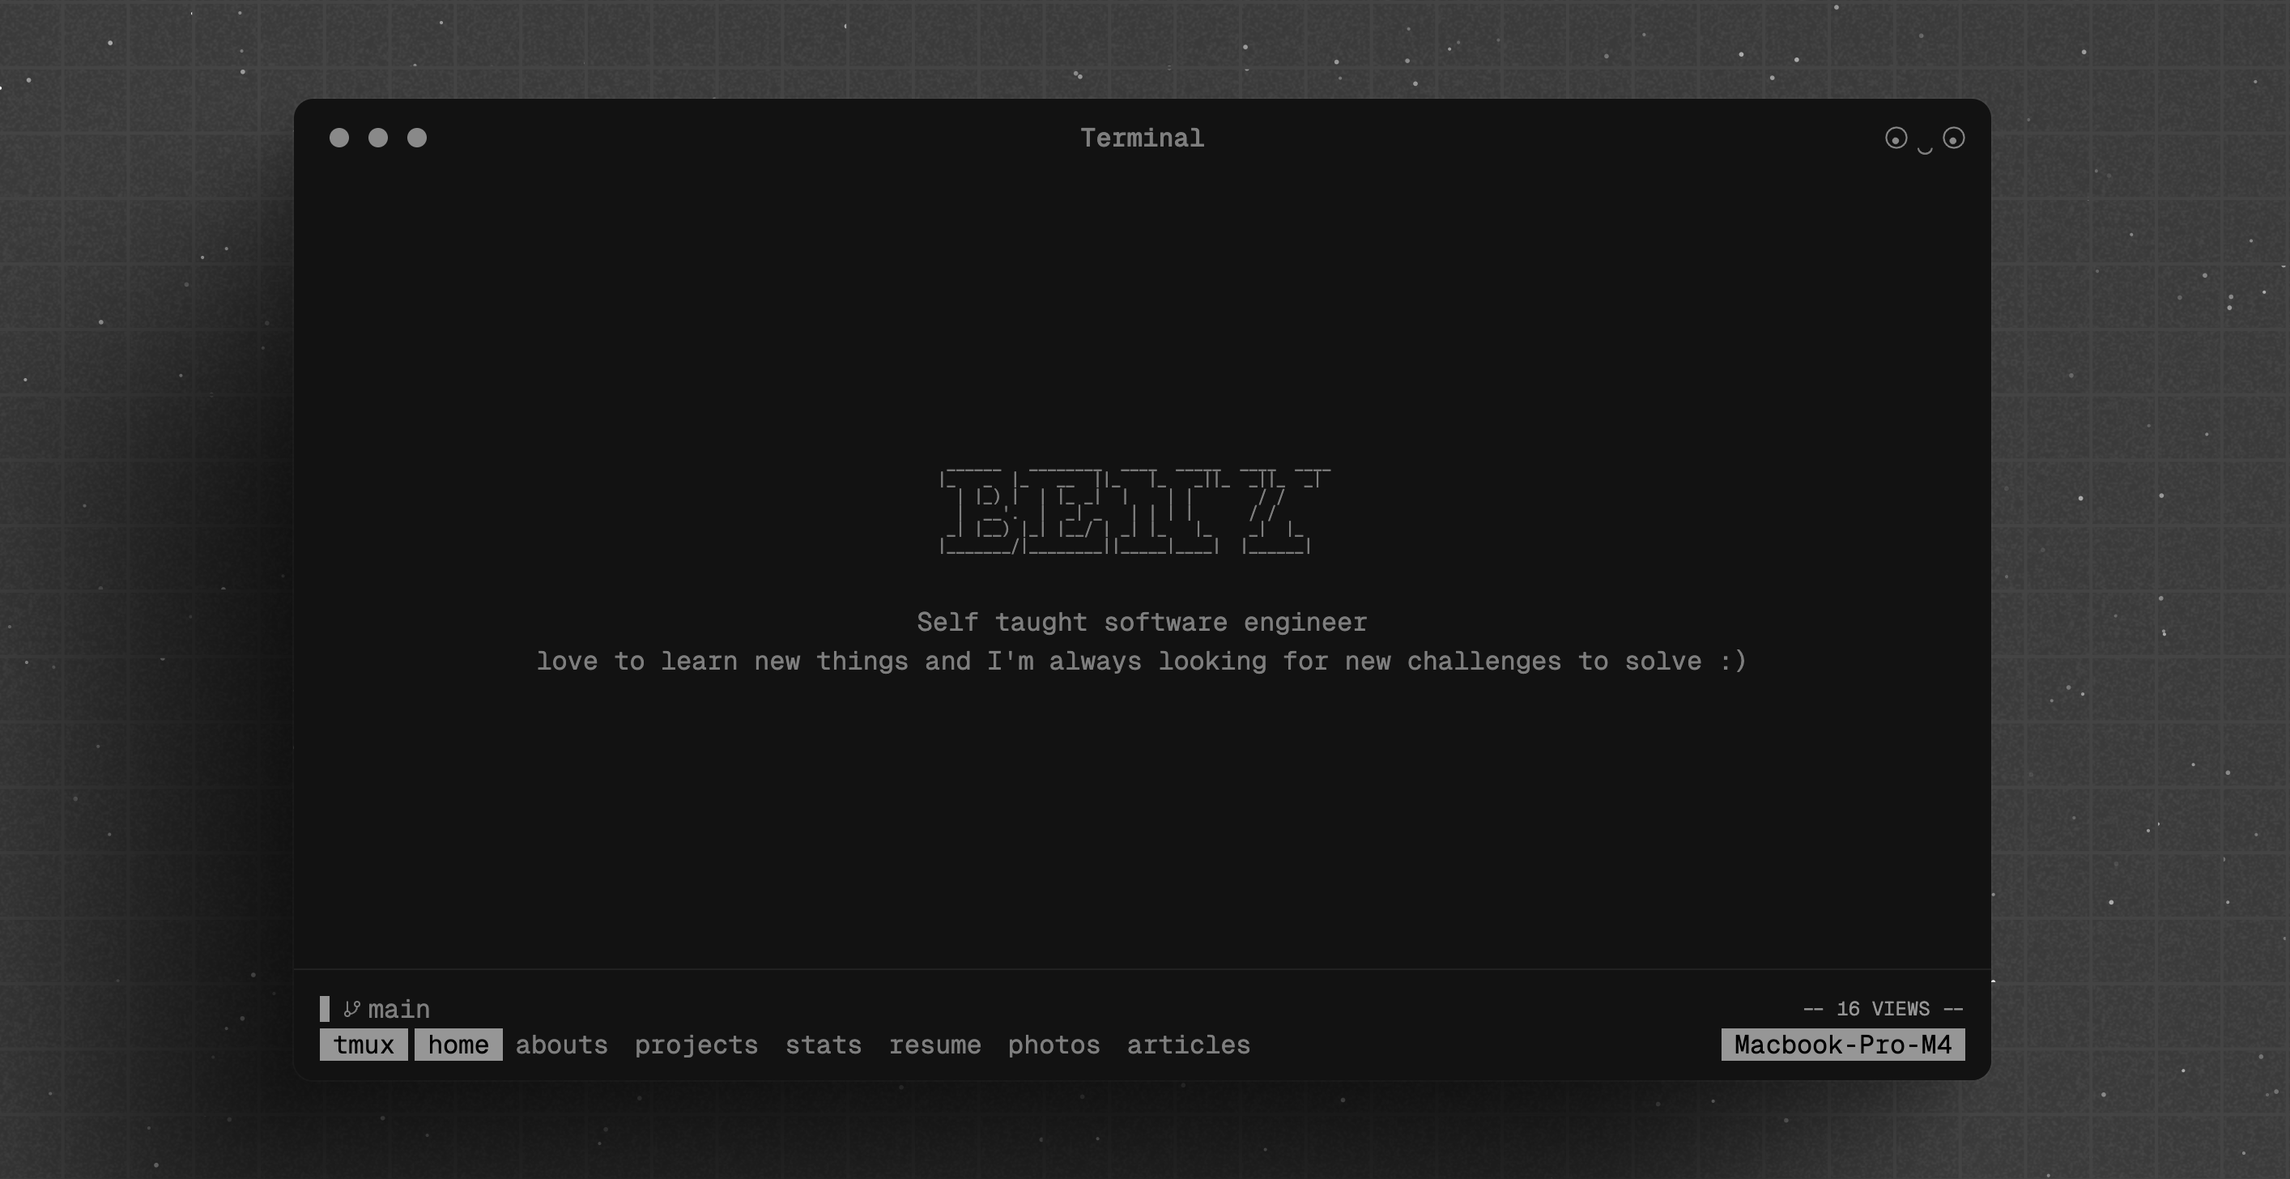
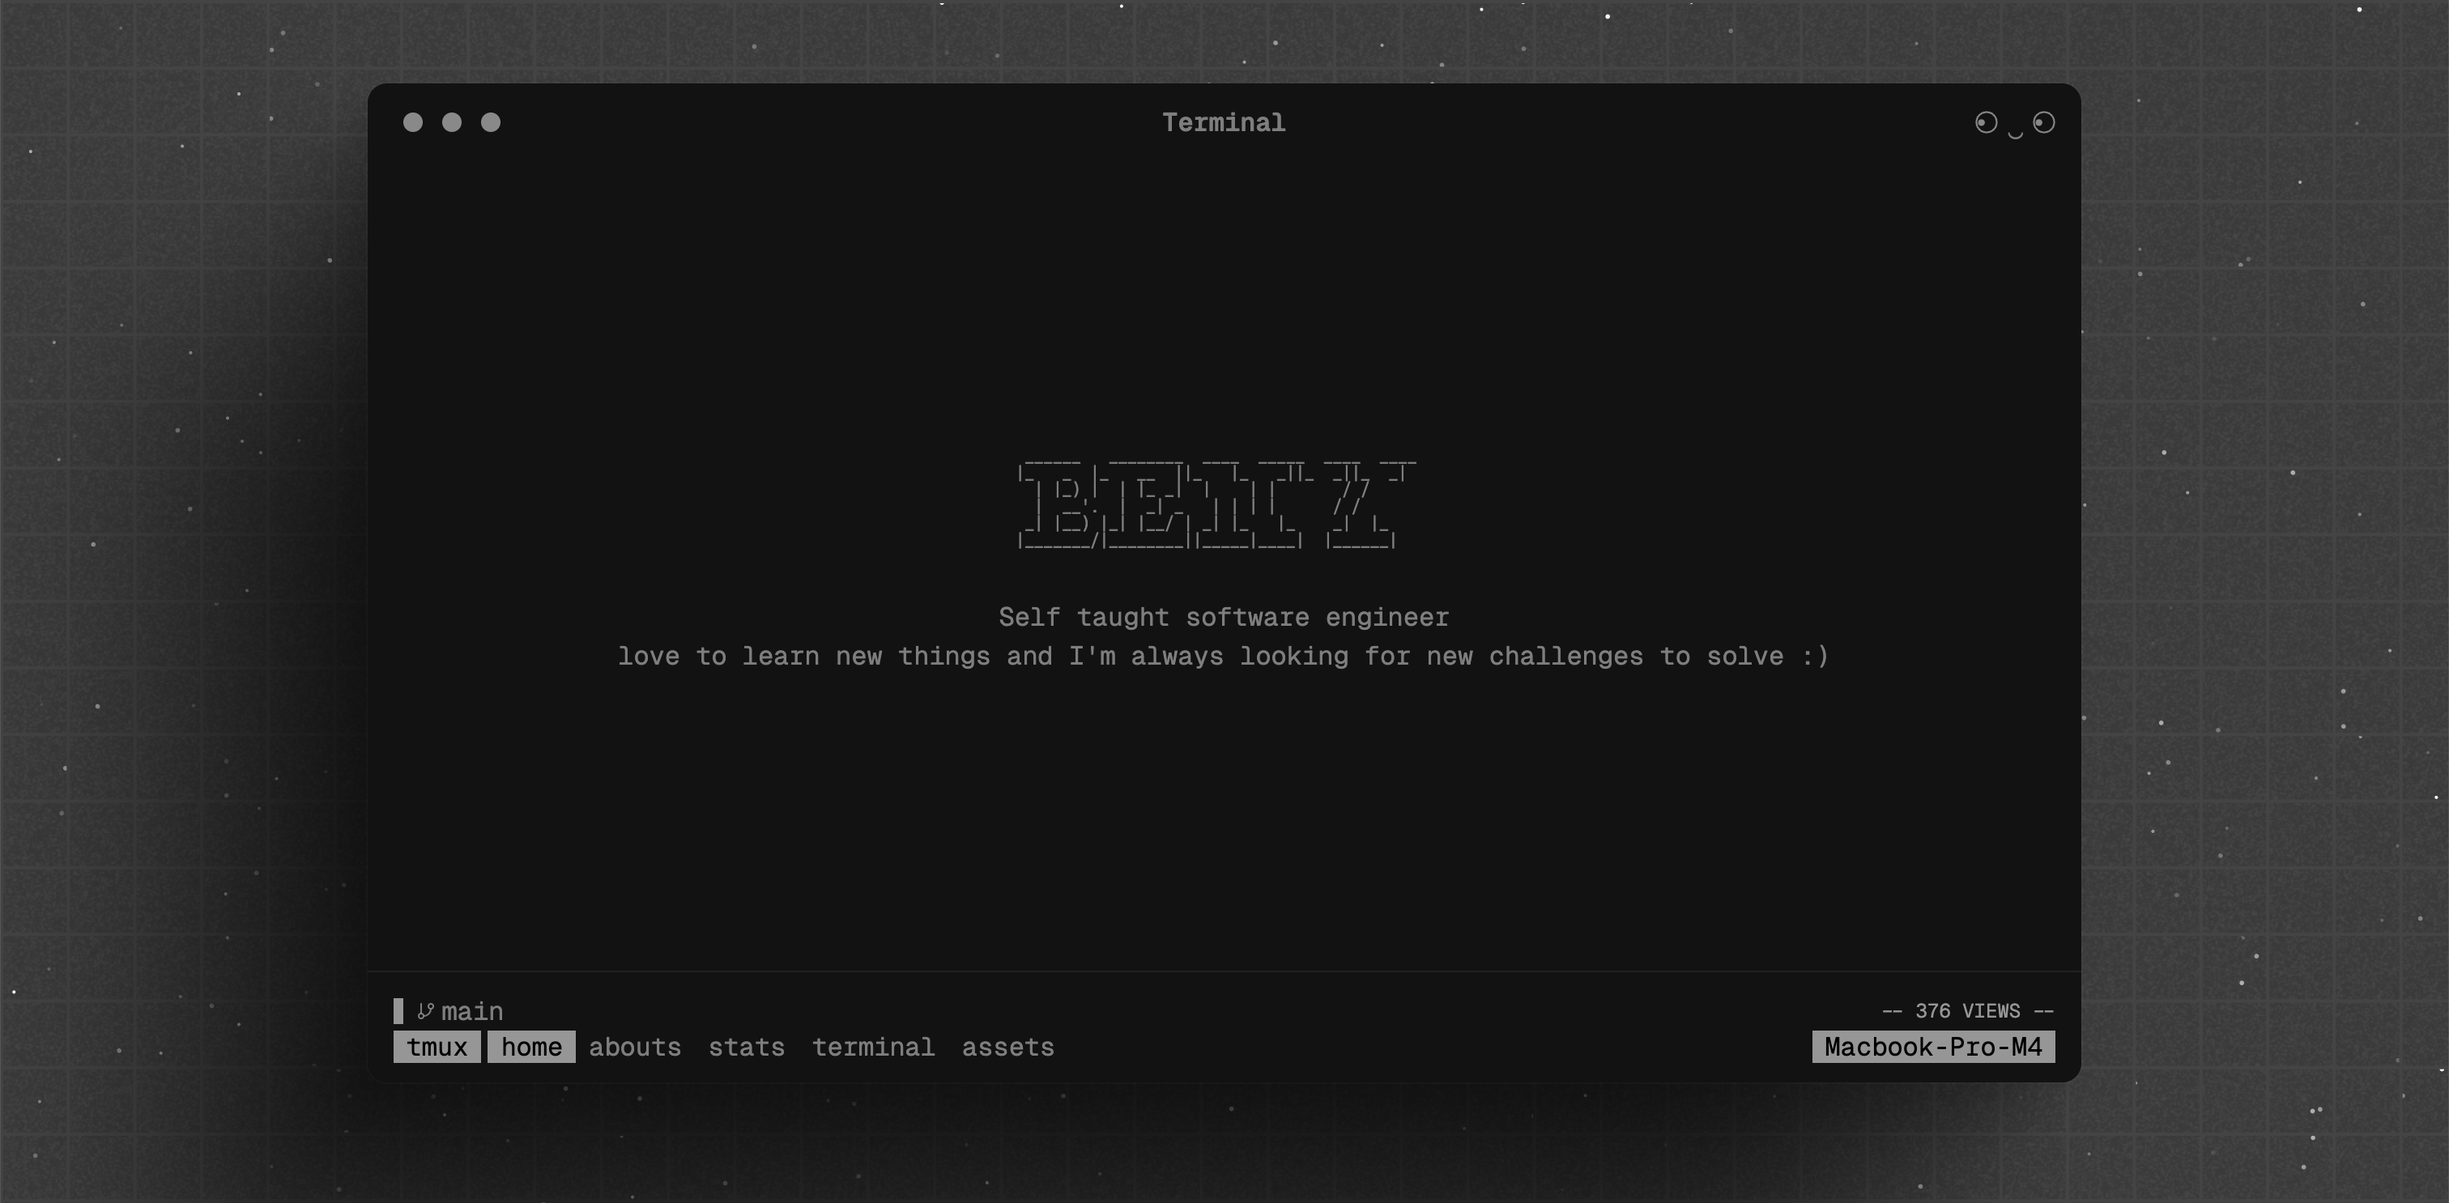
add assets edit and delete sonners

diff --git a/src/app/assets/page.tsx b/src/app/assets/page.tsx
@@ -3,6 +3,7 @@
 import { useState, useEffect } from 'react';
 import { useRouter } from 'next/navigation';
 import Image from 'next/image';
+import { toast } from 'sonner';
 
 interface FileMetadata {
   id: string;
@@ -32,6 +33,8 @@ export default function AssetsPage() {
   const [showUploadForm, setShowUploadForm] = useState(false);
   const [viewMode, setViewMode] = useState<'grid' | 'list'>('grid');
   const [selectMode, setSelectMode] = useState(false);
+  const [deletingFiles, setDeletingFiles] = useState<Set<string>>(new Set());
+  const [bulkDeleting, setBulkDeleting] = useState(false);
   const [newFile, setNewFile] = useState<{
     file: File | null;
     displayName: string;
@@ -157,6 +160,8 @@ export default function AssetsPage() {
   };
 
   const handleDelete = async (fileName: string) => {
+    setDeletingFiles((prev) => new Set(prev).add(fileName));
+
     try {
       const response = await fetch('/api/files/delete', {
         method: 'DELETE',
@@ -167,19 +172,36 @@ export default function AssetsPage() {
       if (!response.ok) {
         const errorData = await response.json();
         console.error('Error deleting file:', errorData.error);
-        alert(`Delete failed: ${errorData.error}`);
+        toast.error(`Delete failed: ${errorData.error}`, {
+          description:
+            'Please try again or contact support if the issue persists.',
+        });
         return;
       }
 
       await fetchAssets();
+      toast.success('File deleted successfully', {
+        description: 'The file has been permanently removed from your assets.',
+      });
     } catch (error) {
       console.error('Error deleting file:', error);
-      alert('An unexpected error occurred during deletion');
+      toast.error('An unexpected error occurred', {
+        description:
+          'Please try again or contact support if the issue persists.',
+      });
+    } finally {
+      setDeletingFiles((prev) => {
+        const newSet = new Set(prev);
+        newSet.delete(fileName);
+        return newSet;
+      });
     }
   };
 
   const handleBulkDelete = async () => {
     if (selectedFiles.length === 0) return;
+
+    setBulkDeleting(true);
 
     try {
       const response = await fetch('/api/files/bulk', {
@@ -194,9 +216,26 @@ export default function AssetsPage() {
       if (response.ok) {
         setSelectedFiles([]);
         await fetchAssets();
+        toast.success(`${selectedFiles.length} file(s) deleted successfully`, {
+          description:
+            'All selected files have been permanently removed from your assets.',
+        });
+      } else {
+        const errorData = await response.json();
+        toast.error('Bulk delete failed', {
+          description:
+            errorData.error ||
+            'Please try again or contact support if the issue persists.',
+        });
       }
     } catch (error) {
       console.error('Error bulk deleting files:', error);
+      toast.error('An unexpected error occurred', {
+        description:
+          'Please try again or contact support if the issue persists.',
+      });
+    } finally {
+      setBulkDeleting(false);
     }
   };
 
@@ -250,7 +289,9 @@ export default function AssetsPage() {
 
   const copyToClipboard = (url: string) => {
     navigator.clipboard.writeText(url);
-    // You could add a toast notification here
+    toast.success('Link copied to clipboard', {
+      description: 'The asset URL has been copied to your clipboard.',
+    });
   };
 
   const formatFileSize = (bytes: number) => {
@@ -270,6 +311,10 @@ export default function AssetsPage() {
       minute: '2-digit',
     });
   };
+
+  const LoadingSpinner = () => (
+    <div className="inline-flex h-4 w-4 animate-spin rounded-full border-2 border-[#898989] border-t-transparent" />
+  );
 
   const handleLogout = async () => {
     try {
@@ -343,6 +388,7 @@ export default function AssetsPage() {
                 <option value="uncategorized">Uncategorized</option>
                 <option value="images">Images</option>
                 <option value="videos">Videos</option>
+                <option value="audio">Audio</option>
                 <option value="documents">Documents</option>
                 <option value="other">Other</option>
               </select>
@@ -362,9 +408,11 @@ export default function AssetsPage() {
               <div className="flex flex-col gap-2 sm:flex-row">
                 <button
                   onClick={handleBulkDelete}
-                  className="rounded bg-red-600 px-3 py-1 text-sm text-white hover:bg-red-700"
+                  disabled={bulkDeleting}
+                  className="flex items-center gap-2 rounded bg-red-600 px-3 py-1 text-sm text-white hover:bg-red-700 disabled:cursor-not-allowed disabled:opacity-50"
                 >
-                  Delete Selected
+                  {bulkDeleting && <LoadingSpinner />}
+                  {bulkDeleting ? 'Deleting...' : 'Delete Selected'}
                 </button>
                 <select
                   onChange={(e) => handleBulkMove(e.target.value)}
@@ -378,6 +426,7 @@ export default function AssetsPage() {
                   <option value="uncategorized">Uncategorized</option>
                   <option value="images">Images</option>
                   <option value="videos">Videos</option>
+                  <option value="audio">Audio</option>
                   <option value="documents">Documents</option>
                   <option value="other">Other</option>
                 </select>
@@ -418,7 +467,7 @@ export default function AssetsPage() {
                   }
                   disabled={uploading}
                   className="block w-full text-sm text-[#898989]/90 transition-colors file:mr-4 file:rounded-md file:border-0 file:bg-[#444444] file:px-4 file:py-2 file:text-sm file:font-medium file:text-white hover:file:bg-[#555555] disabled:opacity-50"
-                  accept="image/*,video/*"
+                  accept="image/*,video/*,audio/*,.pdf,.svg"
                 />
               </div>
 
@@ -501,6 +550,7 @@ export default function AssetsPage() {
                     <option value="uncategorized">Uncategorized</option>
                     <option value="images">Images</option>
                     <option value="videos">Videos</option>
+                    <option value="audio">Audio</option>
                     <option value="documents">Documents</option>
                     <option value="other">Other</option>
                   </select>
@@ -621,7 +671,7 @@ export default function AssetsPage() {
         <div
           className={
             viewMode === 'grid'
-              ? 'grid grid-cols-1 gap-4 sm:grid-cols-2 sm:gap-6 lg:grid-cols-3 xl:grid-cols-4'
+              ? 'grid grid-cols-1 gap-4 sm:grid-cols-2 md:grid-cols-3 lg:gap-6'
               : 'space-y-3'
           }
         >
@@ -656,7 +706,8 @@ export default function AssetsPage() {
 
                   {/* File Preview */}
                   <div className="mb-3 flex aspect-square items-center justify-center overflow-hidden rounded-lg bg-[#0a0a0a] sm:mb-4">
-                    {asset.type.startsWith('image/') ? (
+                    {asset.type.startsWith('image/') ||
+                    asset.type === 'image/svg+xml' ? (
                       <Image
                         src={asset.url}
                         alt={asset.display_name}
@@ -671,6 +722,30 @@ export default function AssetsPage() {
                         className="max-h-full max-w-full object-contain"
                         controls
                       />
+                    ) : asset.type.startsWith('audio/') ? (
+                      <div className="flex flex-col items-center justify-center space-y-2 p-4">
+                        <div className="text-4xl">🎵</div>
+                        <audio
+                          src={asset.url}
+                          controls
+                          className="w-full max-w-xs"
+                        />
+                      </div>
+                    ) : asset.type === 'application/pdf' ? (
+                      <div className="flex flex-col items-center justify-center space-y-2 p-4">
+                        <div className="text-4xl">📄</div>
+                        <div className="text-center text-xs text-[#898989]/60">
+                          PDF Document
+                        </div>
+                        <a
+                          href={asset.url}
+                          target="_blank"
+                          rel="noopener noreferrer"
+                          className="rounded bg-[#555555] px-3 py-1 text-xs text-white hover:bg-[#666666]"
+                        >
+                          Open PDF
+                        </a>
+                      </div>
                     ) : (
                       <div className="text-center text-[#898989]/60">
                         <div className="mb-1 text-3xl sm:mb-2 sm:text-4xl">
@@ -724,9 +799,15 @@ export default function AssetsPage() {
                       </button>
                       <button
                         onClick={() => handleDelete(asset.file_name)}
-                        className="rounded-md bg-red-600 px-3 py-2 text-xs font-medium text-white transition-colors hover:bg-red-700 sm:text-sm"
+                        disabled={deletingFiles.has(asset.file_name)}
+                        className="flex items-center gap-2 rounded-md bg-red-600 px-3 py-2 text-xs font-medium text-white transition-colors hover:bg-red-700 disabled:cursor-not-allowed disabled:opacity-50 sm:text-sm"
                       >
-                        Delete
+                        {deletingFiles.has(asset.file_name) && (
+                          <LoadingSpinner />
+                        )}
+                        {deletingFiles.has(asset.file_name)
+                          ? 'Deleting...'
+                          : 'Delete'}
                       </button>
                     </div>
 
@@ -752,7 +833,8 @@ export default function AssetsPage() {
 
                   {/* Thumbnail */}
                   <div className="flex h-16 w-16 flex-shrink-0 items-center justify-center overflow-hidden rounded-lg bg-[#0a0a0a]">
-                    {asset.type.startsWith('image/') ? (
+                    {asset.type.startsWith('image/') ||
+                    asset.type === 'image/svg+xml' ? (
                       <Image
                         src={asset.url}
                         alt={asset.display_name}
@@ -767,6 +849,14 @@ export default function AssetsPage() {
                         className="max-h-full max-w-full object-contain"
                         controls
                       />
+                    ) : asset.type.startsWith('audio/') ? (
+                      <div className="text-center text-[#898989]/60">
+                        <div className="text-lg">🎵</div>
+                      </div>
+                    ) : asset.type === 'application/pdf' ? (
+                      <div className="text-center text-[#898989]/60">
+                        <div className="text-lg">📄</div>
+                      </div>
                     ) : (
                       <div className="text-center text-[#898989]/60">
                         <div className="text-lg">📄</div>
@@ -824,9 +914,13 @@ export default function AssetsPage() {
                     </button>
                     <button
                       onClick={() => handleDelete(asset.file_name)}
-                      className="rounded-md bg-red-600 px-3 py-2 text-xs font-medium text-white transition-colors hover:bg-red-700 sm:text-sm"
+                      disabled={deletingFiles.has(asset.file_name)}
+                      className="flex items-center gap-2 rounded-md bg-red-600 px-3 py-2 text-xs font-medium text-white transition-colors hover:bg-red-700 disabled:cursor-not-allowed disabled:opacity-50 sm:text-sm"
                     >
-                      Delete
+                      {deletingFiles.has(asset.file_name) && <LoadingSpinner />}
+                      {deletingFiles.has(asset.file_name)
+                        ? 'Deleting...'
+                        : 'Delete'}
                     </button>
                   </div>
                 </div>

diff --git a/src/app/api/files/upload/route.ts b/src/app/api/files/upload/route.ts
@@ -16,14 +16,31 @@ export async function POST(request: NextRequest) {
     const description = formData.get('description') as string;
     const tags = formData.get('tags') as string;
     const category = formData.get('category') as string;
+    const customFileName = formData.get('customFileName') as string;
 
     if (!file) {
       return NextResponse.json({ error: 'No file provided' }, { status: 400 });
     }
 
-    // Generate unique filename
-    const fileExt = file.name.split('.').pop();
-    const fileName = `${Date.now()}.${fileExt}`;
+    // Use custom filename if provided, otherwise use original filename
+    let fileName = customFileName || file.name;
+
+    // Ensure filename has proper extension
+    const originalExt = file.name.split('.').pop();
+    if (!fileName.includes('.')) {
+      fileName = `${fileName}.${originalExt}`;
+    }
+
+    // Check if file already exists and add timestamp if needed
+    const { data: existingFiles } = await supabaseAdmin.storage
+      .from('assets')
+      .list('', { search: fileName });
+
+    if (existingFiles && existingFiles.length > 0) {
+      const fileExt = fileName.split('.').pop();
+      const nameWithoutExt = fileName.replace(/\.[^/.]+$/, '');
+      fileName = `${nameWithoutExt}-${Date.now()}.${fileExt}`;
+    }
 
     // Upload file to storage using service role
     const { error } = await supabaseAdmin.storage

diff --git a/src/lib/auth.ts b/src/lib/auth.ts
@@ -89,12 +89,9 @@ export async function updateSession(request: NextRequest) {
   const token = request.cookies.get('auth-token')?.value;
 
   if (!token) {
-    if (
-      request.nextUrl.pathname.startsWith('/assets') ||
-      request.nextUrl.hostname === 'assets.beny.one'
-    ) {
-      // Redirect to main domain login page
-      const loginUrl = new URL('/login', 'https://terminal.beny.one');
+    if (request.nextUrl.pathname.startsWith('/assets')) {
+      // Redirect to login page on current domain
+      const loginUrl = new URL('/login', request.nextUrl.origin);
       return NextResponse.redirect(loginUrl);
     }
     return NextResponse.next();
@@ -102,13 +99,9 @@ export async function updateSession(request: NextRequest) {
 
   const payload = await verifyToken(token);
 
-  if (
-    !payload &&
-    (request.nextUrl.pathname.startsWith('/assets') ||
-      request.nextUrl.hostname === 'assets.beny.one')
-  ) {
-    // Redirect to main domain login page
-    const loginUrl = new URL('/login', 'https://terminal.beny.one');
+  if (!payload && request.nextUrl.pathname.startsWith('/assets')) {
+    // Redirect to login page on current domain
+    const loginUrl = new URL('/login', request.nextUrl.origin);
     return NextResponse.redirect(loginUrl);
   }
 

diff --git a/src/app/layout.tsx b/src/app/layout.tsx
@@ -8,6 +8,7 @@ import { SpeedInsights } from '@vercel/speed-insights/next';
 
 import { AppShell } from '@/components/app-shell';
 import { ResponsiveIndicator } from '@/components/responsive-indicator';
+import { Toaster } from 'sonner';
 
 import { ENV } from '@/lib/constants';
 import { Particles } from '@/components/particles';
@@ -76,6 +77,17 @@ export default async function RootLayout({ children }: Readonly<Props>) {
         )}
         <Analytics />
         <SpeedInsights />
+        <Toaster
+          theme="dark"
+          position="top-right"
+          toastOptions={{
+            style: {
+              background: '#1a1a1a',
+              border: '1px solid #444444',
+              color: '#ffffff',
+            },
+          }}
+        />
       </body>
     </html>
   );

diff --git a/src/app/api/auth/login/route.ts b/src/app/api/auth/login/route.ts
@@ -30,7 +30,7 @@ export async function POST(request: NextRequest) {
         httpOnly: true,
         secure: process.env.NODE_ENV === 'production',
         sameSite: 'lax',
-        domain: '.beny.one', // Allow cookie to work across subdomains
+        domain: process.env.NODE_ENV === 'production' ? '.beny.one' : undefined, // Only set domain in production
         maxAge: 24 * 60 * 60, // 24 hours
       });
       return response;

diff --git a/src/lib/constants.ts b/src/lib/constants.ts
@@ -1,6 +1,9 @@
 export const ENV = {
   NEXT_PUBLIC_WEBSITE_URL:
-    process.env.NEXT_PUBLIC_WEBSITE_URL || 'https://terminal.beny.one/',
+    process.env.NEXT_PUBLIC_WEBSITE_URL ||
+    (process.env.NODE_ENV === 'development'
+      ? 'http://localhost:3000/'
+      : 'https://terminal.beny.one/'),
   NEXT_PUBLIC_GOOGLE_SITE_VERIFICATION: '',
 
   UMAMI_SHARE_TOKEN: process.env.UMAMI_SHARE_TOKEN || '',

diff --git a/README.md b/README.md
@@ -7,8 +7,6 @@ A modern terminal-inspired personal website built with Next.js 15 and TailwindCS
 ![Preview 1](./public/preview-1.png)
 ![Preview 2](./public/preview-2.png)
 ![Preview 3](./public/preview-3.png)
-![Preview 4](./public/preview-4.png)
-![Preview 5](./public/preview-5.png)
 
 ## ✨ Features
 
